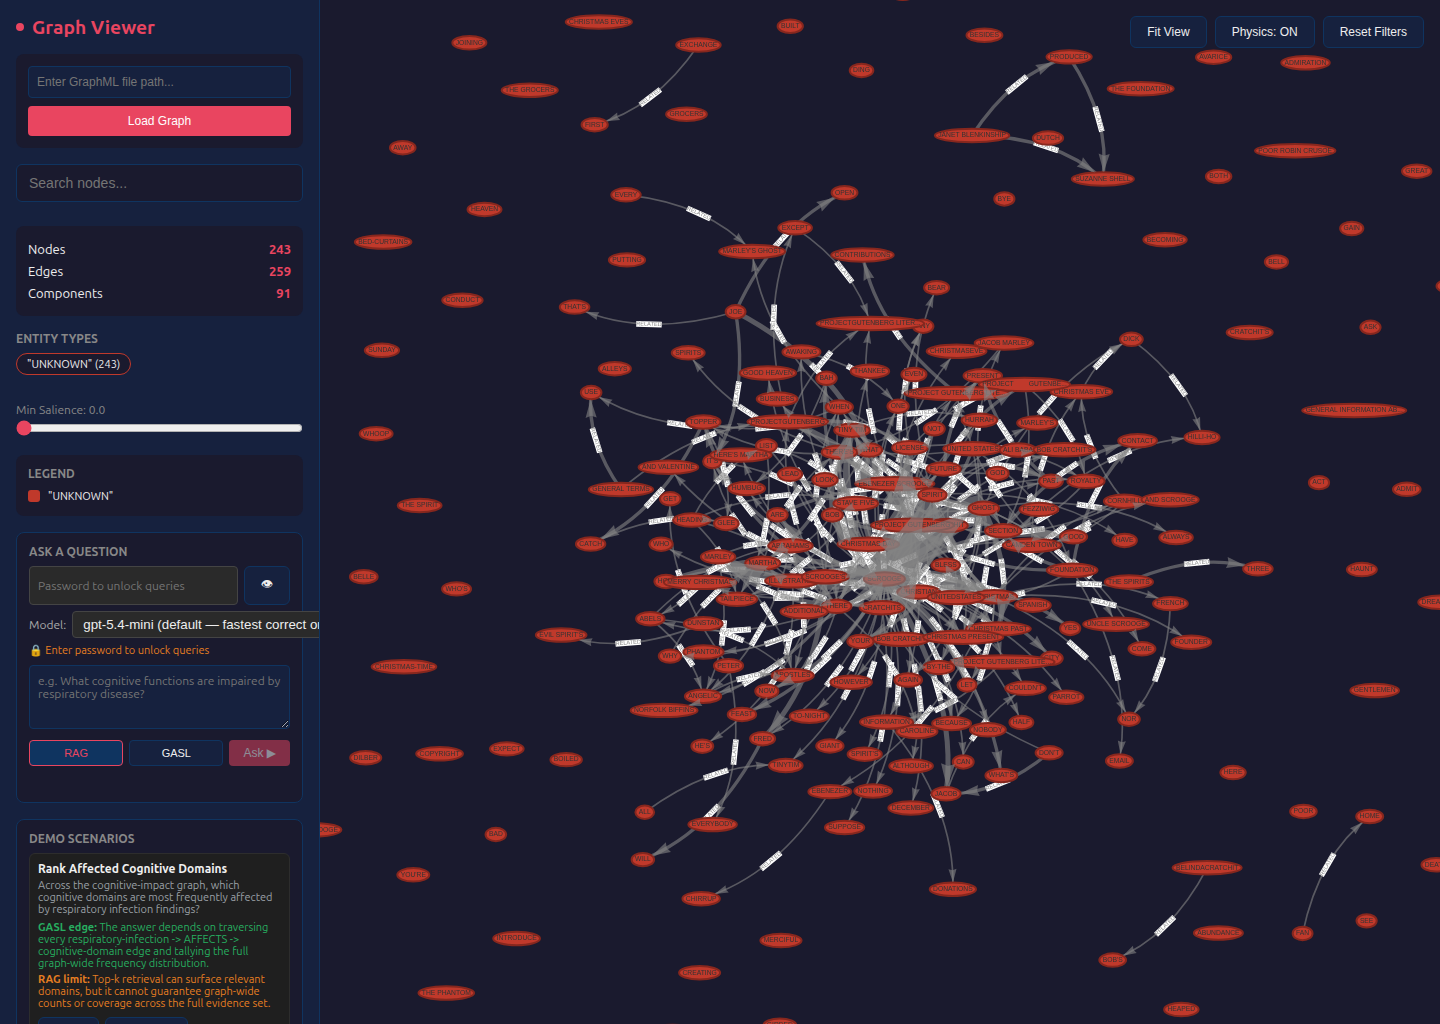
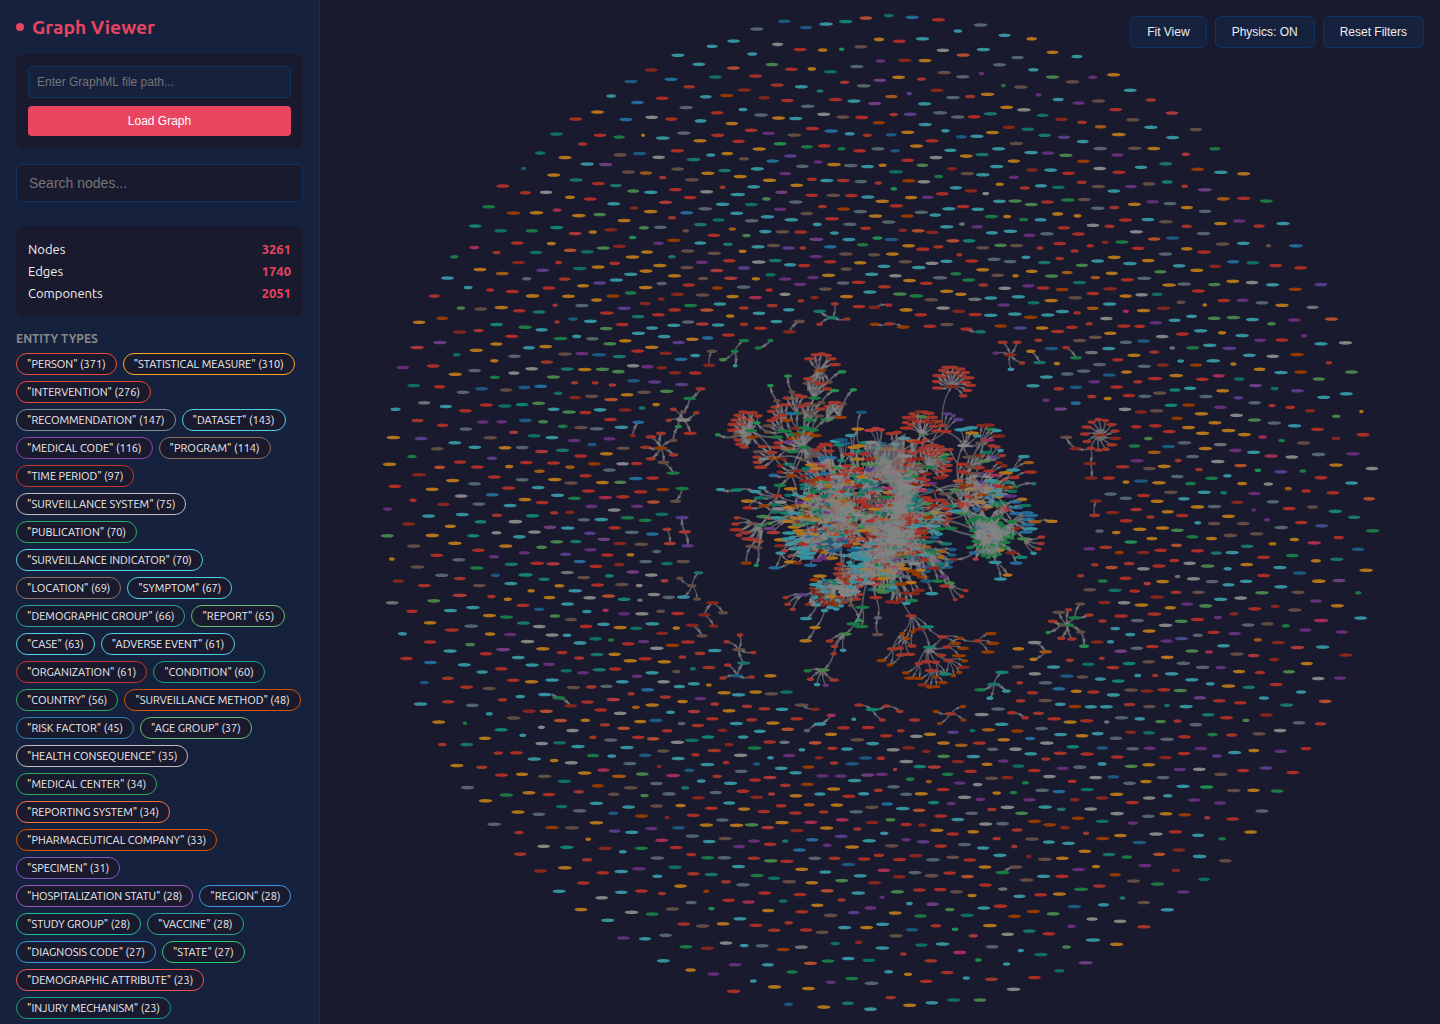
Refresh GASL guide and visualization screenshot

diff --git a/docs/GASL_GUIDE.md b/docs/GASL_GUIDE.md
@@ -96,7 +96,7 @@ gasl/
 ├── state.py              # State management
 ├── state_manager.py      # Centralized state operations
 ├── graph_versioning.py   # Graph version control
-├── validation.py         # Input validation
+├── search_refinement_agent.py # Central runtime search refinement agent for iterative/output-adaptive commands
 ├── micro_actions.py      # LLM micro-operations
 ├── utils.py              # Utilities
 ├── commands/             # Command implementations
@@ -920,7 +920,6 @@ print(result)
       "finished_at": "2024-01-01T10:05:00"
     }
   ],
-  "validation_hint": null,
   "strategy_insights": "Successfully extracted authors using PERSON entity type"
 }
 ```
